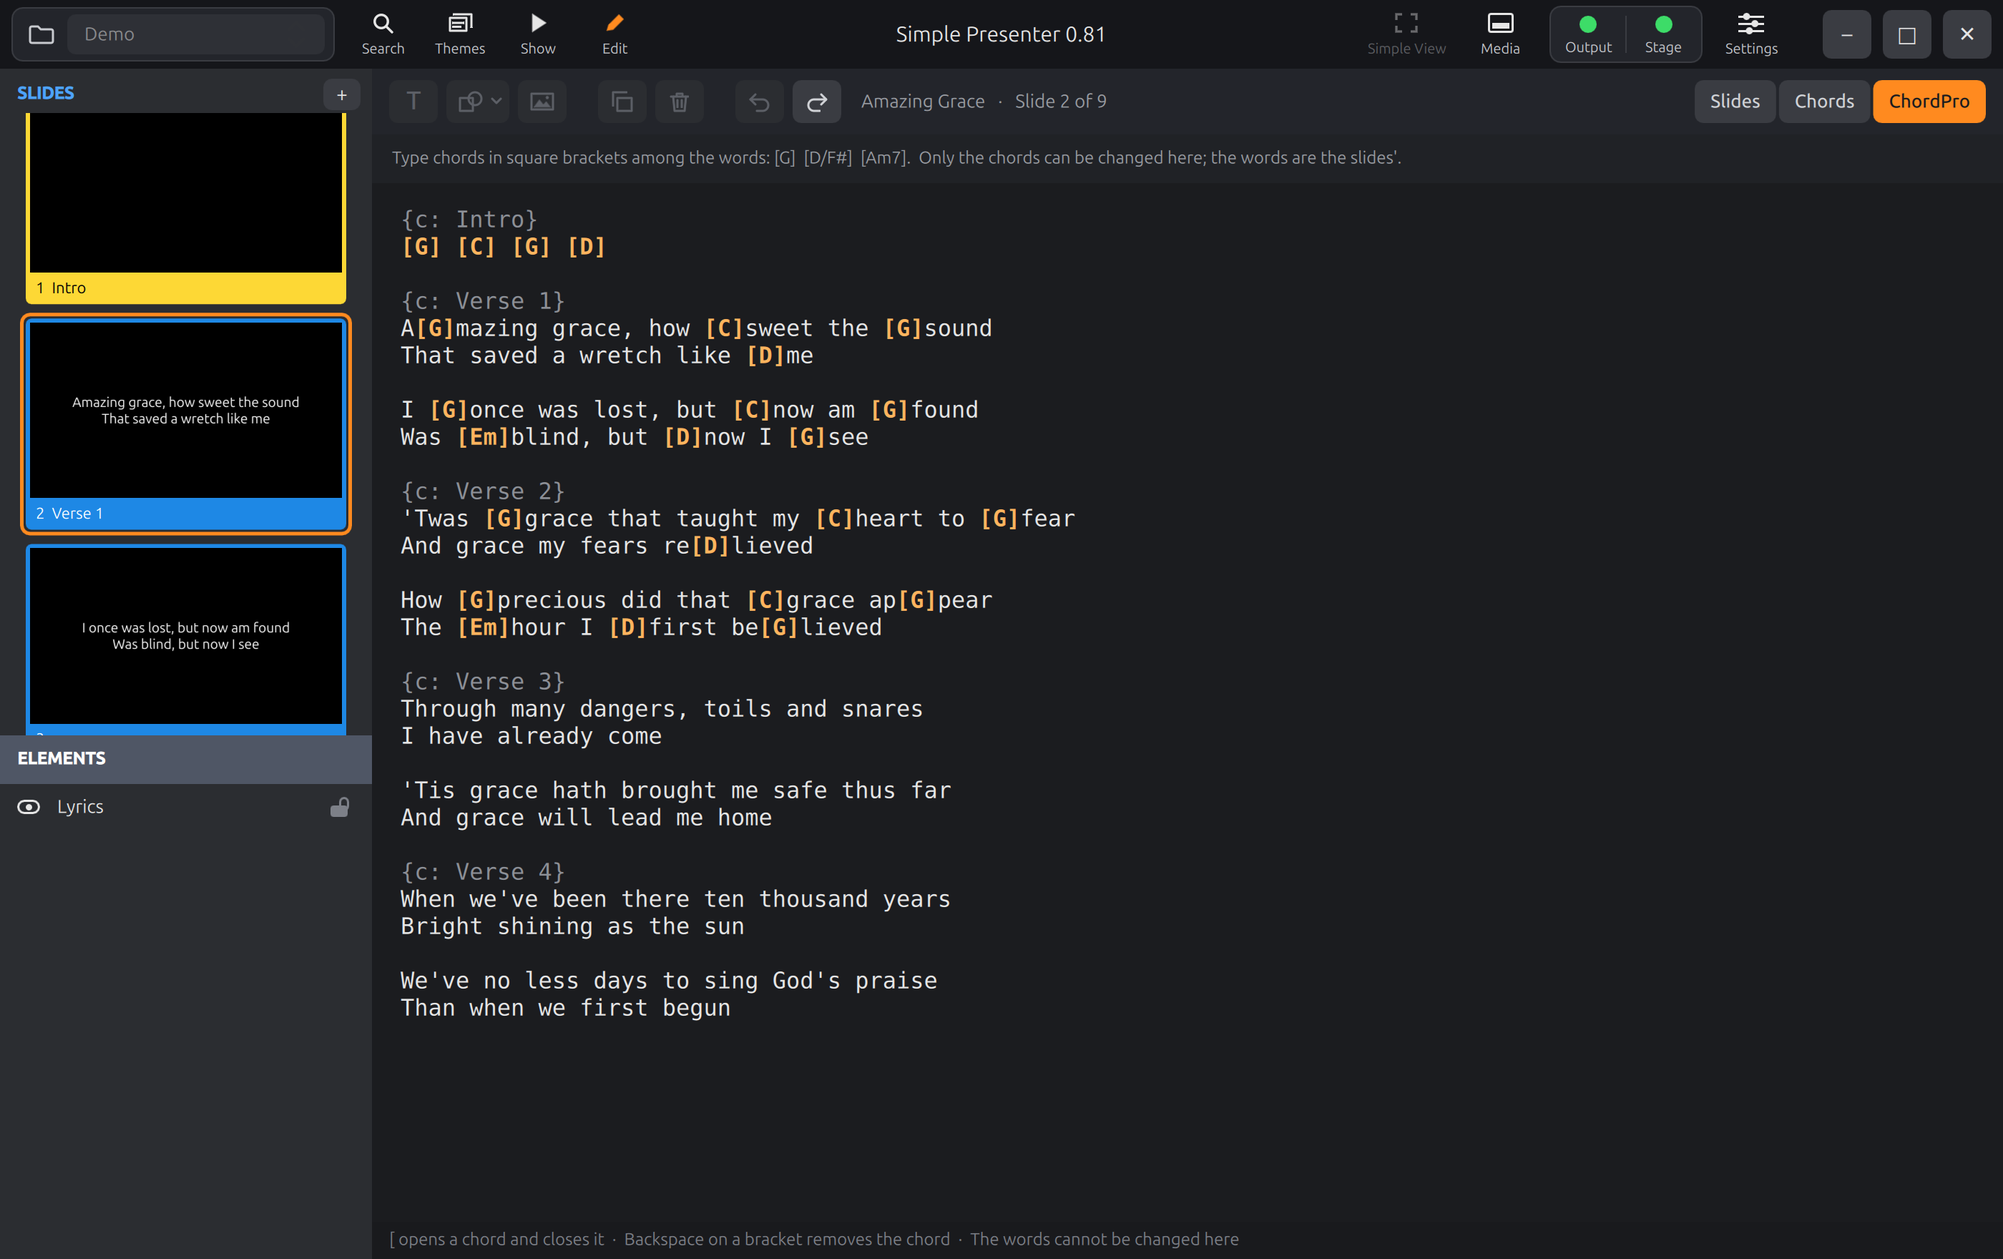
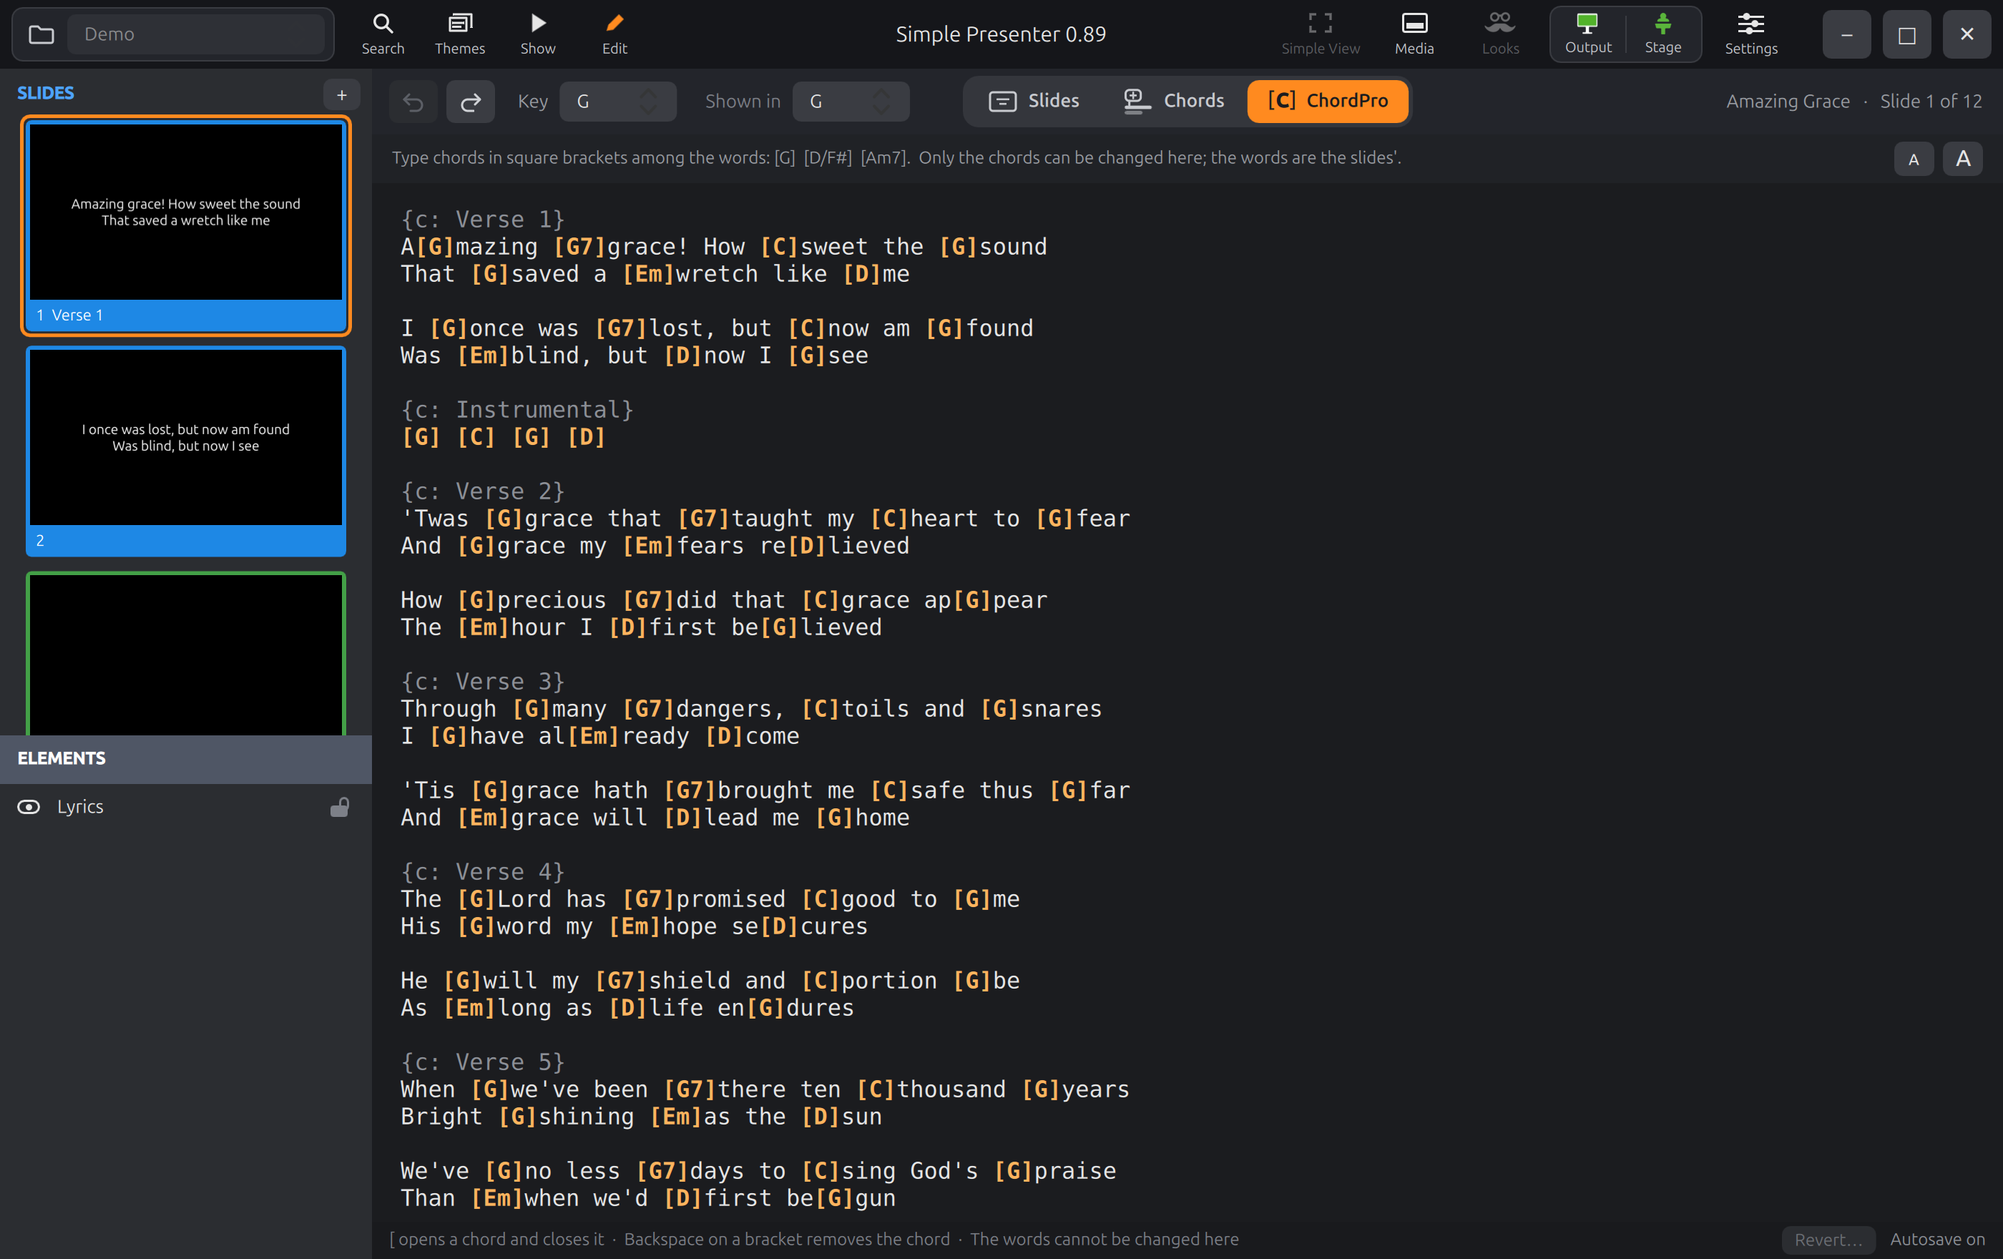
The README on the chord editors as they now are, with their pictures
What the chord sheet and the ChordPro text now do, key by key; the
song's two keys; Autosave on and Revert; the colours; and what is a
guess or not done, the changing of a line of chords where it stands
in the file among it. The six pictures of the two editors are taken
again, by a script as before, of Amazing Grace.

diff --git a/README.md b/README.md
@@ -101,7 +101,7 @@ and the chord is one key away (1 to 7 are the chords of the song's key) or a let
 two typed, with the likely ones offered. Click the next place and carry on. More under
 [Chords](#chords).
 
-![The chord editor: the song as one sheet, each slide's lines in a card under the name of its group, with the chords in small bubbles over the letters they belong to; along the top the song's key and its seven chords on the keys 1 to 7; over one line a bubble in which a chord is being typed, with what it might be going to be offered above it; and on the next slide a bubble in outline where the pointer is, which is where a click would start the next chord](docs/chord-editor.png)
+![The chord editor: the song as one sheet, its slides a grid of cards, each in a frame of its group's colour with the slide's number and the group's name on its foot, and the chords in small bubbles over the letters they belong to; over the grid the seven chords of the song's key on the keys 1 to 7, and in the toolbar the song's two keys and the switch between Slides, Chords and ChordPro; over one line a bubble in which a chord is being typed, with what it might be going to be offered above it; and on the line under it a bubble in outline where the pointer is, which is where a click would start the next chord](docs/chord-editor.png)
 
 The same song can be worked on as ChordPro text, and a song can be brought in from a
 ChordPro file, chords and all.
@@ -187,6 +187,19 @@ something non-trivial that way. It has three goals.
 
 The big things lately, the newest first.
 
+- **The chord editors, as they came back from the Mac.** The [chord
+  editor](#the-chord-editor) was made into a program of its own for the Mac and for
+  Windows ([Pro7 Chord Editor](https://github.com/greyshirtguy/Pro7ChordEditor)), and
+  what was thought of and found in building that is now here too, so that the two work
+  and look alike. The sheet's slides are a grid, as the slides of a presentation are,
+  each in a frame of its group's colour, and the sheet zooms: a window that showed four
+  slides of a song shows nine, or sixteen. A paste says what came of it. The song has
+  two keys to pick, the one its chords are written in and the one they are shown in,
+  over both editors. The way of working is a switch in the middle of the toolbar.
+  Under the editors it says **Autosave on**, and **Revert…** makes the song what it was
+  when it was opened. The ChordPro text has a size of its own, and the settings have
+  the colour of a chord in each. And a line of chords with no words that has lost its
+  last chord can be given chords again.
 - **A slide by its number.** Type a slide's number while showing and it comes up over
   the slides, large; Enter takes that slide live, as a click on it would. Typing takes
   nothing live by itself, and a number left alone for a second goes away again. See
@@ -1090,20 +1103,31 @@ Picking a key changes nothing in the file and lasts while the app is open.
 
 ### The chord editor
 
-With a presentation in the editor, the buttons at the right of its toolbar give three
+With a presentation in the editor, the switch in the middle of its toolbar gives three
 ways of working: **Slides** (the editor as it always was), **Chords** and **ChordPro**.
 The last two are for a song's chords, and are this app's own: ProPresenter shows the
 chords a song came with and has no way to put one on.
 
+The same two editors are a program of their own for the Mac and for Windows, [Pro7
+Chord Editor](https://github.com/greyshirtguy/Pro7ChordEditor), which began as a copy
+of this one. What was thought of and found in building that has come back here, and the
+two are meant to work and look alike. (Where they cannot: there, Ctrl+1 and Ctrl+2 show
+the two editors and Ctrl+S says that there is nothing to save; here those keys are
+ProPresenter's, for the screens and for showing, and stay so.)
+
 Putting chords on a song by hand is usually a chore. **Chords** was made so that it is
 not, and it has turned out to be the part of this app that is most fun to use. The
-whole song is one sheet, each slide's lines in a card under the name of its group,
-because chording a song a slide at a time would be slow going. (Each chord is still
-kept with its own slide's words, in ProPresenter's file.)
+whole song is one sheet, because chording a song a slide at a time would be slow going.
+(Each chord is still kept with its own slide's words, in ProPresenter's file.) Its
+slides are a grid, like the slides of a presentation in the operator window, but each
+is its words at a size to be read, with room over every line for its chords: a card in
+a frame of its group's colour, with the slide's number on the frame's foot and, on the
+first slide of each group, the group's name. They go across the sheet in the order of
+the song, as many to a row as fit.
 
 | Point at a letter, and press 1 to 7 | Or type a chord, and take what is offered |
 |:---:|:---:|
-| <img src="docs/chords-point.png" width="420" alt="The top of the chord editor: the key, G, with its seven chords numbered 1 to 7 beside it, and under them the first verse in its card, with a bubble in outline over the word the pointer is on"> | <img src="docs/chords-type.png" width="420" alt="The same card with a bubble open over a word, D and a slash typed in it, and over that the bass notes it might be going on to: D/F#, D/A, D/G, D/B, D/C and D/E"> |
+| <img src="docs/chords-point.png" width="420" alt="The top of the chord sheet: the seven chords of the song's key numbered 1 to 7, and under them the first slide of the first verse in its card, with a bubble in outline over the word the pointer is on"> | <img src="docs/chords-type.png" width="420" alt="The same card with a bubble open over a word, D and a slash typed in it, and over that the bass notes it might be going on to: D/F#, D/A, D/G, D/B, D/C and D/E"> |
 | **Drag a chord to where it belongs** | **Or type the lot as ChordPro** |
 | <img src="docs/chords-drag.png" width="420" alt="The same card with the chord D being dragged from one word to another: faint where it was, and bright where it would land"> | <img src="docs/chordpro-type.png" width="420" alt="The ChordPro editor: the same song as text, its groups in curly brackets and its chords in square brackets in orange, one of them just typed"> |
 
@@ -1113,9 +1137,9 @@ What makes it quick:
   the pointer from letter to letter (and the arrow keys from word to word), with its
   tail on the letter the chord will stand over. Any letter will do: chords fall in the
   middle of words as often as at their start.
-- **Most chords are one key.** The song's key is at the top of the sheet with its seven
-  chords beside it, numbered. Point at a letter and press **4**, and the key's fourth
-  chord is there: in G, that is C. Most of most songs is those seven.
+- **Most chords are one key.** The song's key is in the toolbar, and its seven chords
+  are along the top of the sheet, numbered. Point at a letter and press **4**, and the
+  key's fourth chord is there: in G, that is C. Most of most songs is those seven.
 - **Typing is helped along.** A letter from A to G opens a bubble to type the chord in.
   It takes only what could be a chord, and offers what it might be going to be: the
   chords the song already has, then the key's own, then the usual kinds on that note,
@@ -1125,10 +1149,28 @@ What makes it quick:
   the bubble opens there: click, type, click, type, down the song. Enter keeps a chord
   too, and Tab keeps it and moves on to the next word. Only Esc throws one away.
 - **Chords are things to pick up.** Drag one to another word, on any slide; hold Ctrl
-  to leave a copy behind.
+  to leave a copy behind. A name that is no chord, which some files have ("N.C."), is
+  picked up, copied and pasted like any other; only what is newly typed has to be a
+  chord.
 - **A verse's chords go onto the next verse in one go.** Ctrl+C copies the chords of a
   line, or with Shift of a whole group, and Ctrl+V puts them on other lines word for
-  word.
+  word. A paste says what came of it, on the line along the bottom: how many chords
+  went on how many lines, how many had no word to go on, and why a line was passed
+  over (chords copied from a line of words go only onto a line of words). And since
+  the natural thing to do before pasting onto a line is to click it, a click on a line
+  and then Ctrl+V pastes there: the bubble the click opened gives way, so long as
+  nothing has been typed in it and nothing has been copied anywhere else since.
+- **As much of the song in sight as the window has room for.** The slides go across as
+  well as down, and the sheet zooms. Every card of a song is one width, that of its
+  widest slide and no wider, and the shape of a screen, though never taller for that
+  than four lines need; a row of the grid is taller only where a slide of it has more
+  lines. No room is kept for what might be put on a line later: a line that comes to
+  need more, for a chord at its end, is given it then. The empty lines a text box's
+  words end with get no row. The **−** and **+** at the right of the strip make the
+  words smaller and larger, in nine steps from half the size to half as large again;
+  so do Ctrl with minus and plus, Ctrl with the wheel, and two fingers spread or closed
+  on a trackpad. Ctrl+0 is the usual size, which is eight tenths. The size is kept
+  from one start of the app to the next.
 - **A slide with no words takes chords too.** An intro, an instrumental or an ending
   is often a slide with nothing on it. It is on the sheet as a card with one empty
   line: point at it and put chords on, one after another, as anywhere else. They are
@@ -1141,6 +1183,11 @@ What makes it quick:
   mind leaves nothing behind: take the chords off again while the song is still open
   in the editor, and the slide's file is exactly what it was, an added text box gone
   with them.
+- **A line of chords with no words that loses its last chord takes chords again.** It
+  is left one character that does not show, and is still on the sheet with the spot on
+  it. (It was left with none, and under a verse such a line was then gone for good but
+  for undo.) And where the chords of such a line are only renamed, or put in another
+  order, nothing of the text box's words is written again.
 - **Nothing is lost.** Every change is saved at once, into the song's own file, and
   Ctrl+Z takes it back. The words are never changed here, only the chords.
 
@@ -1155,14 +1202,22 @@ All of it, key by key:
 | Click | On a place: type a chord there, or change the one that is there. While a chord is being typed, a click on another place keeps it and starts on the next; a click anywhere else on the sheet keeps it too |
 | Drag a chord | Moves it to another word, on any slide. With Ctrl held it is copied |
 | Delete | Takes off the chord at the spot |
-| Shift | Under the pointer, the spot keeps to the starts of words. With the arrow keys, it goes a letter at a time |
+| Right, Left | The spot goes a word along its line, and from the end of a line on to the next line of the song |
+| Down, Up | The spot goes to the line under or over it on the screen: from a slide's last line, to the slide below it in the grid (the next slide of the song is beside it, and Right goes there) |
+| Shift | Under the pointer, the spot keeps to the starts of words. With Right and Left, it goes a letter at a time |
 | Ctrl+C, Ctrl+Shift+C | Copies the chords of the spot's line, or of its whole group |
 | Ctrl+V | Puts them on the lines from the spot's on, word for word: a second verse gets the chords of the first |
 | Ctrl+Z, Ctrl+Shift+Z | Undo and redo |
+| Ctrl with −, + and 0 | The words a step smaller, a step larger, and their usual size. Ctrl with the wheel does the first two |
 
-The **Key** at the top left of the sheet says what key the chords are written in, which
-is what 1 to 7 go by and what the stage transposes from. A song that names no key is
-taken to be in C until one is set.
+**The song's two keys** are in the toolbar, over both chord editors. **Key** says what
+key the chords are written in, which is what 1 to 7 go by and what the stage transposes
+from; it changes no chord. A song that names no key shows **None**, and is taken to be
+in C until one is set. **Shown in** is the key ProPresenter shows the song in, moving
+the chords there itself, and the key this app's own stage starts from. It follows the
+first while the two are the same; where someone has had a song shown in another key, a
+tone lower for a singer say, saying what key its chords are written in leaves that
+alone. A change of key is undone like any other change.
 
 **ChordPro** is the same song as text, each chord in square brackets where it is played:
 `[G]Amazing [C]grace`. Chords are typed, changed and deleted among the words, and the
@@ -1172,7 +1227,24 @@ to copy from. A line of chords with no words is its chords with spaces between,
 `[C] [G] [Am]`, and a slide with no words is an empty line, which chords can be typed
 on: the one after the empty line that parts it from the slide before. (The two look
 alike. With the caret on the slide's own, that slide is the one picked in the list at
-the side, and what is typed on the other does not stay.)
+the side, and what is typed on the other does not stay.) What is typed is saved a
+moment after the typing stops, to the text boxes that were typed in and no others, and
+all of one saving is one thing to undo. A name the song already has that is no chord
+is left as it is. The two letters **A** over the text, and Ctrl with minus, plus and 0,
+change its size, which is kept apart from the sheet's.
+
+**Nothing is saved by hand**, and under the two chord editors the line along the bottom
+says so: **Autosave on**, where a Save button would be. Beside it is **Revert…**, which
+makes the song what it was when it was opened in the editor, taking back every change
+made since, of whatever kind, whichever of the three ways of working made it. It asks
+first, since its name alone could be taken for Undo's. The song as it was just before
+is kept as a copy with the others the editor keeps, and for a few seconds the line
+offers **Undo**, which puts it back.
+
+**The colour of a chord** in each of the two editors can be chosen in the settings,
+under **Chords**, each with a way back to the colour it came with. They are only how
+the editors draw a chord. Nothing in a song's file says a colour: the stage shows
+chords in the colour its layout gives them.
 
 ### Importing a ChordPro file
 
@@ -1202,8 +1274,21 @@ song's key. The same **+** has **New Presentation…** and **New Library**.
   text box of the song that has words, with those words taken out. That ProPresenter
   is content with it is a guess too. (A song with no text box anywhere gets one as
   the **T** in Slides makes one.) What was made for a slide's chords is only unmade
-  while the song is open in the editor: chords taken off another day leave an empty
-  text box where one was added.
+  while the song is open in the editor: chords taken off another day leave the text
+  box, with one character in it that does not show.
+- A line of chords with no words that has lost its last chord is left one zero-width
+  space, whatever its chords hung on, as the Mac and Windows editors leave it. That
+  ProPresenter makes nothing of such a line is a guess: a line of the kind with chords
+  on it has been seen there, and one with none has not.
+- A chord more or fewer on a line of chords with no words is written by writing that
+  text box's words again, as this app writes text (the line's own characters are
+  changed and every other line keeps its format, but the whole is written afresh).
+  The Mac and Windows editors change the line's characters where they stand in the
+  file and nothing else; that has not been brought here yet.
+- A song whose file names the key its chords are written in and not the one it is
+  shown in is taken as shown in its own. No file looked at is like that.
+- Two fingers spread or closed on a trackpad are meant to zoom the sheet, as on the
+  Mac. No test can make the gesture and it has not been tried by a hand.
 - Numbers, numerals and Do Re Mi are written the way musicians write them.
   ProPresenter does not say exactly what it writes, so they may differ in the corners.
 - A song imported or chorded here is not marked as a Multitracks song, which is a mark
@@ -2058,7 +2143,7 @@ ctest --test-dir build
 ```
 
 **Scripted tests** work the whole app as someone would, with the mouse and the keyboard,
-and look at what its windows then hold and show: over thirty scripts and over fifteen
+and look at what its windows then hold and show: over thirty scripts and over sixteen
 hundred checks. They run on a desktop of their own that shows nowhere, on copies of
 workspaces, with settings of their own, so nothing of a run touches the real desktop,
 settings or workspaces. The app is built for them with a door the scripts come in by,
@@ -2139,6 +2224,7 @@ repository's to publish), so on another computer only the unit tests run as they
 | `qml/ThemesPanel.qml` | The themes, let down from the toolbar's button |
 | `qml/SearchPanel.qml` | The search window |
 | `qml/ChordSheet.qml`, `qml/ChordProEditor.qml` | The two chord editors: the song as a sheet with its chords in bubbles, and as ChordPro text |
+| `qml/EditorModes.qml` | The switch between the editor's three ways of working, in the middle of its toolbar |
 | `qml/ChordedText.qml`, `qml/chordlayout.js` | Words with chords over them, as a stage screen draws them; and where a chord stands over its line |
 | `qml/ImportSong.qml` | The panel a ChordPro file is imported from |
 | `qml/NewPresentation.qml` | The panel a new presentation is named in |

diff --git a/tests/README.md b/tests/README.md
@@ -113,7 +113,7 @@ What the folder holds:
 | `workspaces/ProPresenter MR` | Presentations, timers, props, stage layouts and playlists as ProPresenter itself wrote them |
 | `workspaces/Act` | The same presentations with ProPresenter's macros, groups, its own account of the workspace (screens and looks) and its themes |
 | `workspaces/Shapes` | One presentation and two pictures, for the editor |
-| `songs/` | Two songs with chords, as Multitracks and ProPresenter wrote them, which the `chords` test copies into its workspace |
+| `songs/` | Two songs with chords, as Multitracks and ProPresenter wrote them, which the three `chords` tests copy into their workspaces |
 | `made/` | Small videos and pictures made for the tests: one keyframe in twenty seconds, dark until nine seconds in, VP9, HEVC, one with sound |
 
 **A trap in them: a playlist's row can lead out of the test.** A row of a playlist says
